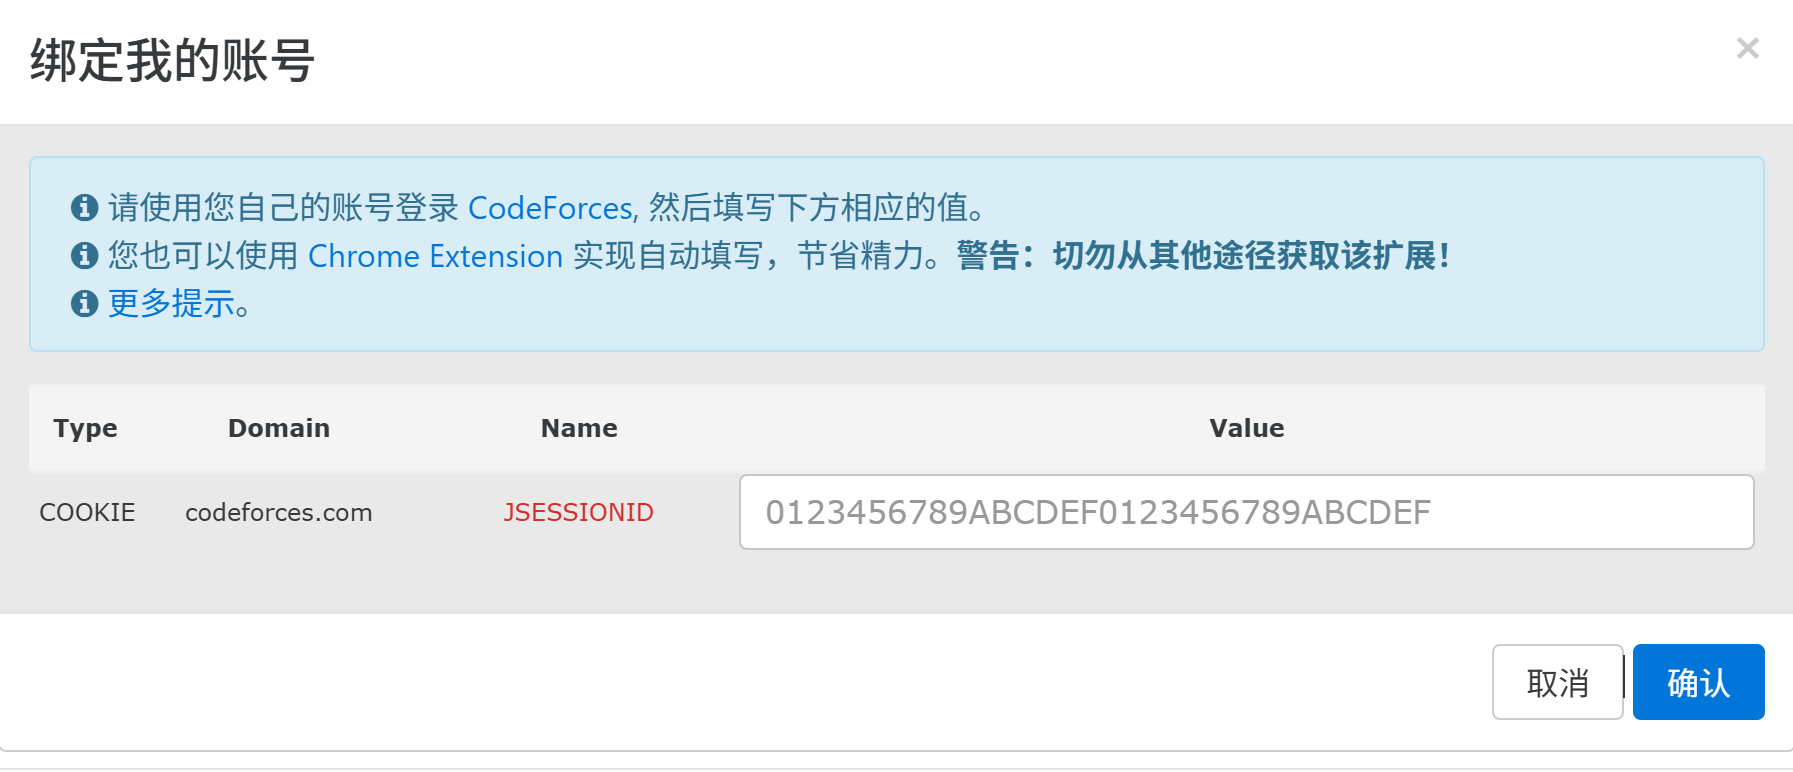
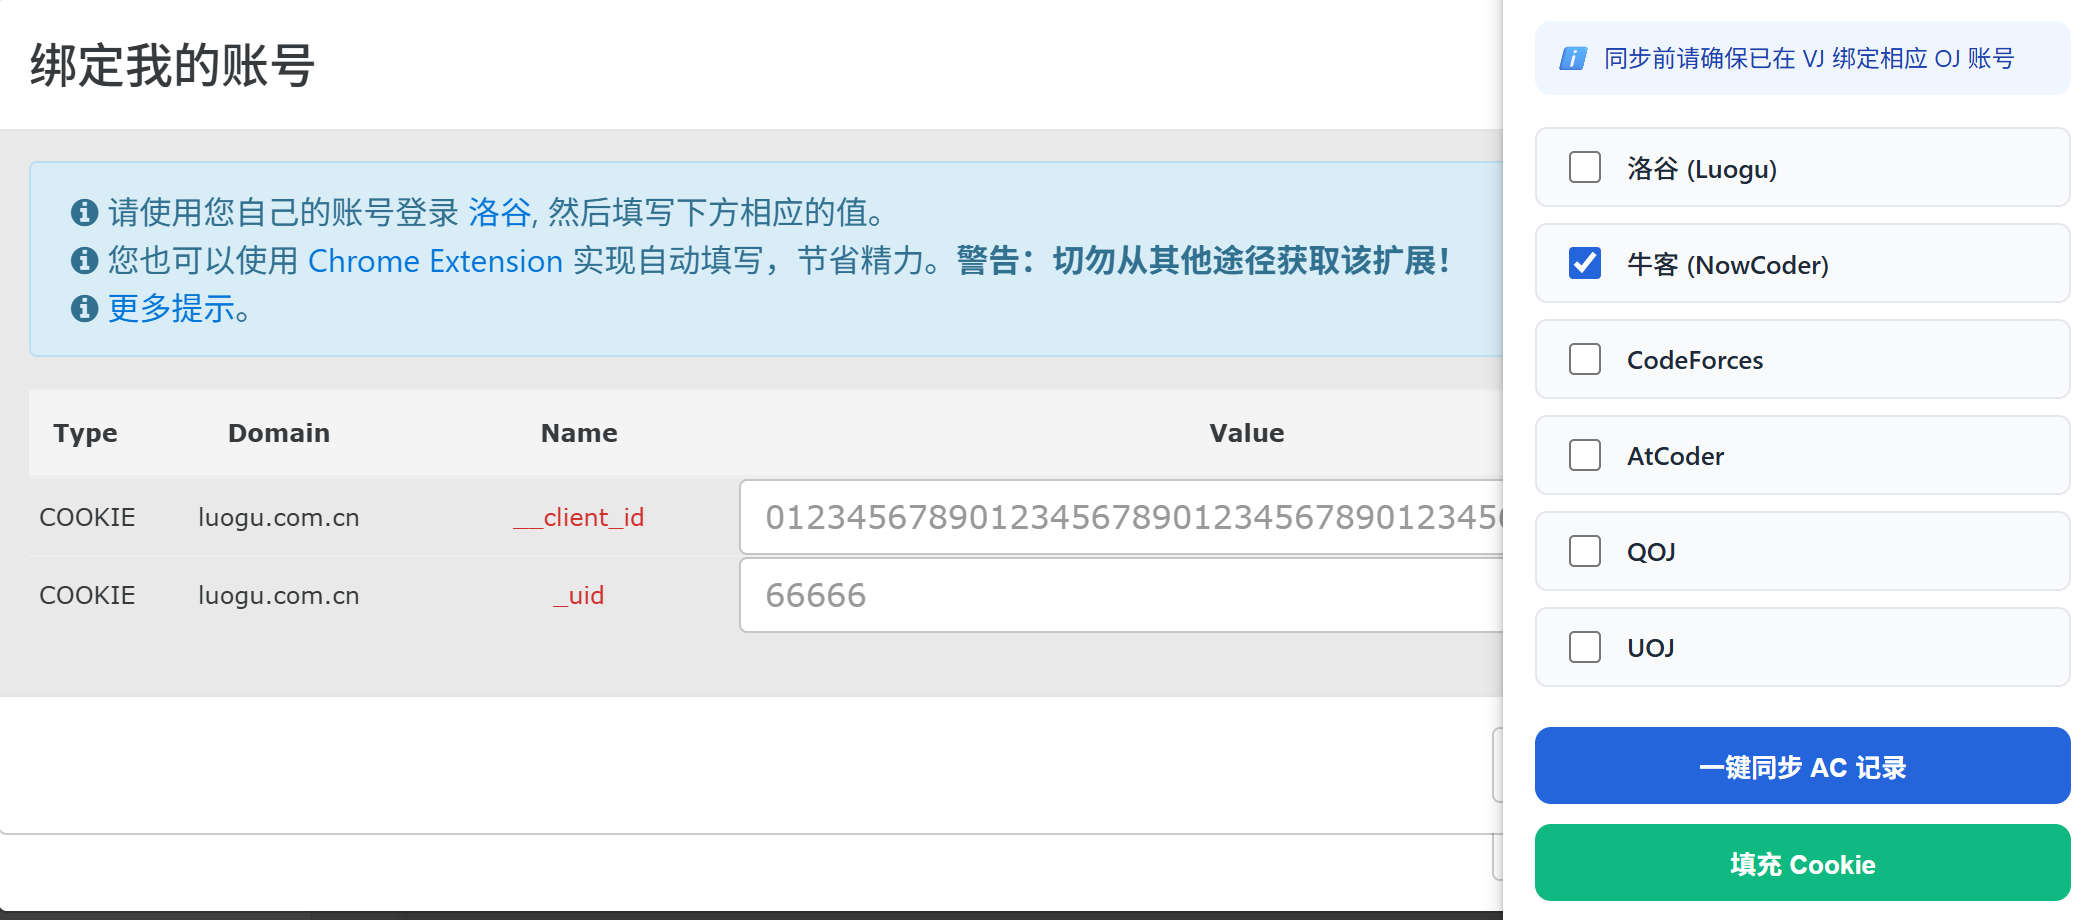
1.更新自述文件，完善使用指南与todo列表 2.美化了使用窗口 3.修复了浏览器扩展版的版本错误

diff --git a/Extension/src/popup/popup.html b/Extension/src/popup/popup.html
@@ -8,7 +8,7 @@
     <div id="vj-sync-popup">
         <div id="vj-sync-header">
             <div class="header-title">
-                <img src="../../icons/icon.png" class="logo-img" alt="logo">
+                <img src="../../icons/icon.png" class="logo-img" alt="logo" >
                 <span>VJのAC自动机</span>
             </div>
             <div class="header-actions">
@@ -20,7 +20,7 @@
         <div id="vj-sync-body">
             <div class="tip-section">
                 <i class="icon-info">ℹ</i>
-                <span>同步前请确保已在 VJ 绑定相应 OJ 账号</span>
+                <span>同步前请确保已在VJ绑定相应 OJ 账号哦~</span>
             </div>
 
             <div class="oj-grid">

diff --git a/Extension/src/popup/popup.js b/Extension/src/popup/popup.js
@@ -19,7 +19,7 @@
     const urlParams = new URLSearchParams(window.location.search);
     if (urlParams.get('mode') === 'window') {
         pinBtn.style.display = 'none';
-        document.body.style.width = '340px'; // 窗口模式下稍微宽一点
+        document.body.style.width = '300px'; // 窗口模式下稍微宽一点
     }
 
     pinBtn.onclick = () => {
@@ -27,8 +27,8 @@
         chrome.windows.create({
             url: url,
             type: 'popup',
-            width: 360,
-            height: 600
+            width: 320,
+            height: 580
         });
         window.close(); // 关闭当前的 popup 气泡
     };

diff --git a/Extension/src/popup/popup.css b/Extension/src/popup/popup.css
@@ -38,9 +38,10 @@
 }
 
 .header-title .logo-img {
-    width: 20px;
-    height: 20px;
-    object-fit: contain;
+    width: 40px;
+    height: 40px;
+    object-fit: cover;
+    border-radius: 50%;
 }
 
 .header-actions {

diff --git a/README.md b/README.md
@@ -1,11 +1,15 @@
  **简体中文 | [English](doc/README_en.md)**
 
+**前言：**
+由于VJ平台功能十分强大，拥有团队/题单/过题详情/AC代码导出等众多实用功能，
+故想做个工具将其他OJ的过题数据同步到VJ平台，便于数据的统一管理
+
 # VJudge の AC自动机
 
-本工具用于 **一键同步 VJudge 上已绑定的其他 OJ 数据**，  
+本工具便是用于 **一键同步 VJudge 上已绑定的其他 OJ 数据**，  
 目前支持市面上大部分主流oj
-方便统一统计个人的过题情况与与团队管理。
 ~~计算机蒟蒻，史山代码不喜勿喷~~
+
 持续更新中...
 
 ## 当前支持的功能
@@ -19,25 +23,31 @@
 - [x] 自动填充cookie
 - [x] 浏览器插件版本
 
-- [ ] AC代码一键同步远程仓库
+- [ ]一键导出生涯数据图
+- [ ] 同步速率优化
+- [ ] 简化题单/比赛创建
 
 ## 快速使用
 
 ### 过题一键同步
 **在VJudge上绑定过账号就可以实现一键同步**
 
-1. 安装好脚本,进入VJudge网站,旁边会出现一个面板
+1. 安装好脚本/扩展,进入VJ,旁边就会出现一个面板/弹窗
 2. 勾选要同步的OJ,点击"一键同步"即可
-3. 要停止同步,刷新页面即可(终止功能懒得写了)
+3. 要停止同步,刷新页面/关闭窗口即可(终止功能懒得写了)
 
+**油猴脚本版：**
 ![](doc/panel.png)
+
+**浏览器扩展版：(支持Chromium内核)**
+注：点击弹窗右上角图钉图标即可进入小窗模式
 ![](doc/popup.png)
 
-### Cookie一键填充
+### Cookie一键填充(限浏览器拓展版本)
 **在VJudge上可以实现一键填充cookie**
 
-1. 打开如下界面，点击面板上的"填充 Cookie"按钮即可一键填充
-2. 必须要是浏览器扩展版本，且不可以用小窗模式
+1. 打开如下界面，点击弹窗(不可用小窗模式)上的"填充 Cookie"按钮即可一键填充
+2. 使用方式错误则不会有任何效果的~
 
 ![](doc/auto-fill.png)
 
@@ -49,7 +59,8 @@
 **[点击此处一键下载脚本](https://greasyfork.org/zh-CN/scripts/559149-vjudge%E3%81%AEac%E8%87%AA%E5%8A%A8%E6%9C%BA)**
 
 ### 浏览器拓展下载
-**严肃开发中...**
+下载本项目并解压后，在浏览器扩展页面加载项目中文件夹“Extension”即可
+发行版暂无
 
 ## 致谢
 
